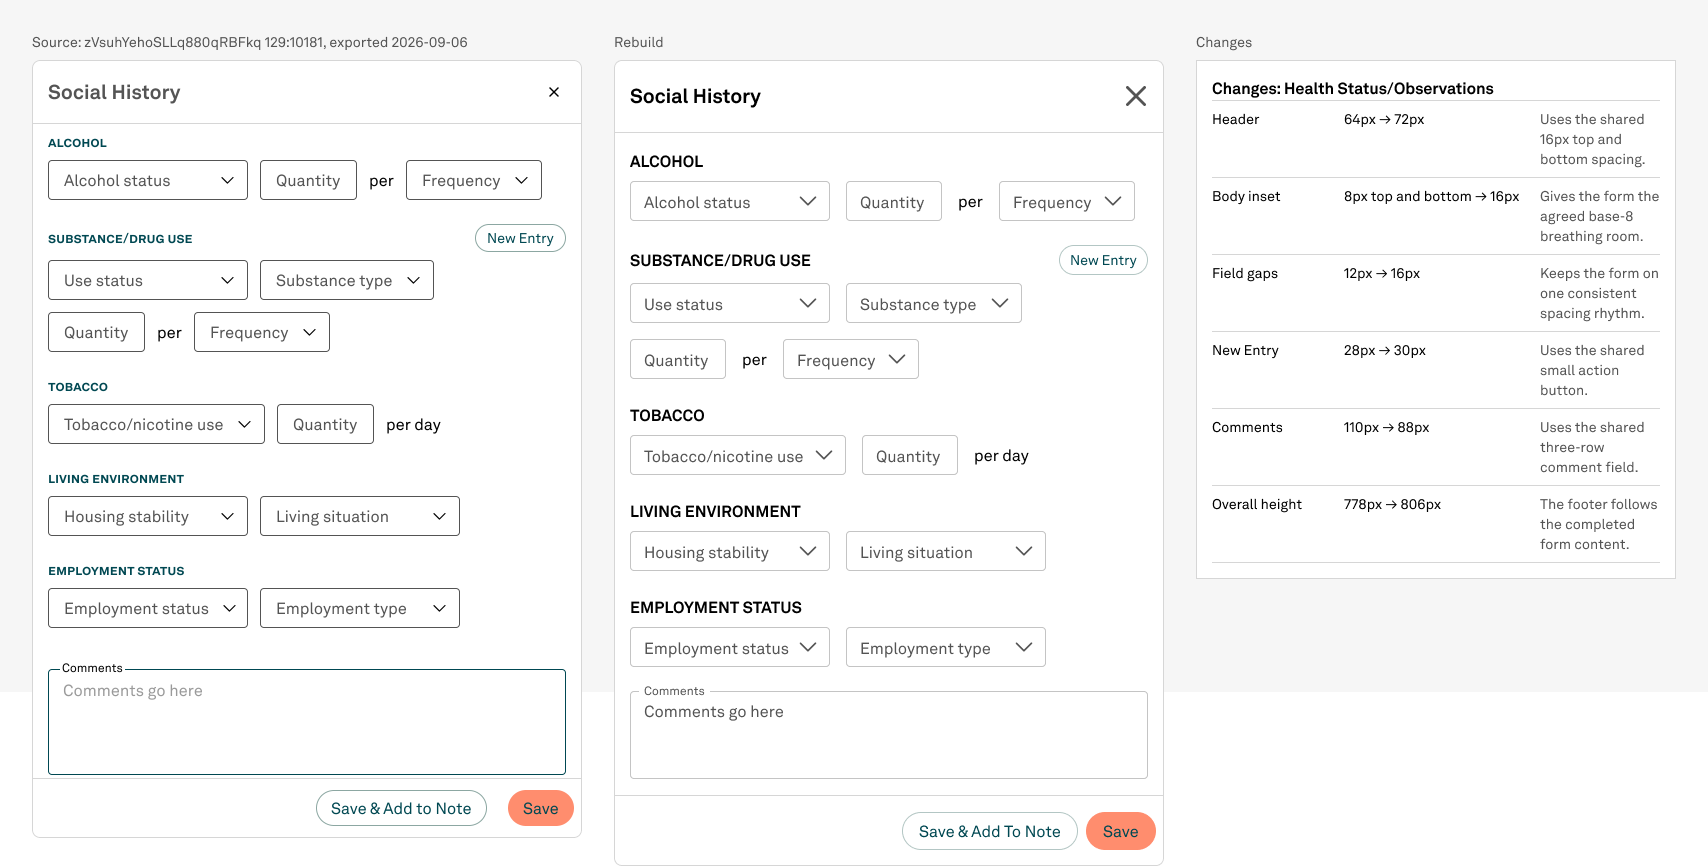
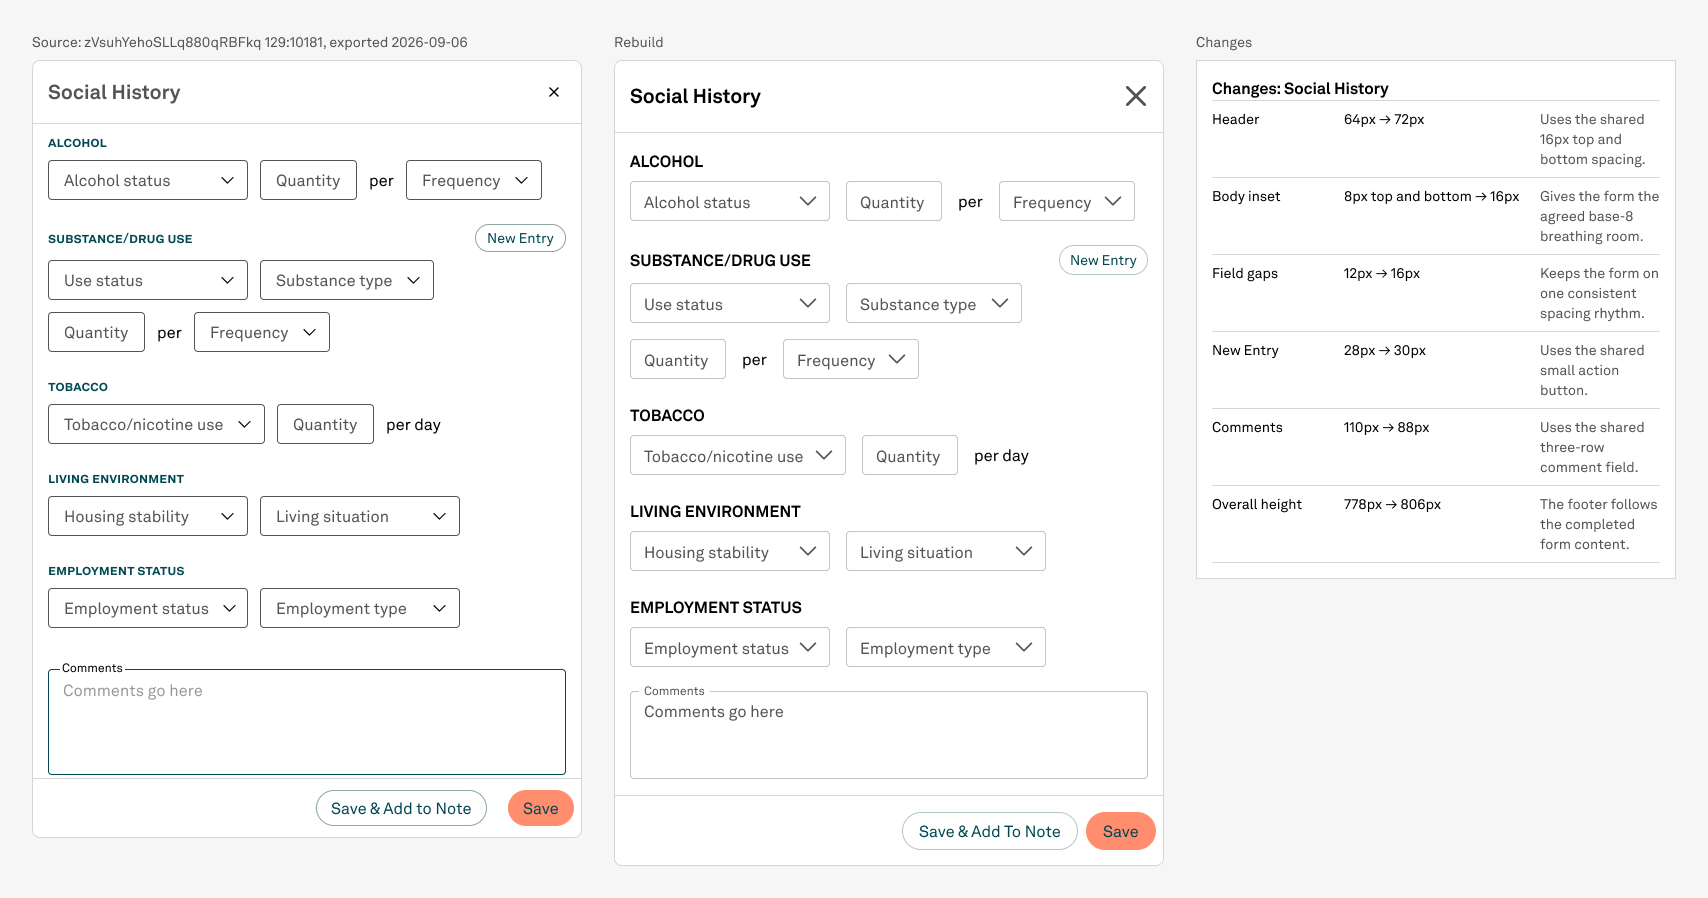
Schema: withdraw two false findings from the encounter-shell batch
The Health Status/Observations record was present all along (recorded 2026-09-05 22:15, earlier in key order than the audit record). No record was dropped; the previous commit's restore did not run. Flags withdrawn and kept; helper-naming finding added; report corrected.

Claude-Session: https://claude.ai/code/session_01PD2zFa2Sp2wXpivQxgFZsA

diff --git a/amend-npve-encounter-shell-withdraw-false-findings.js b/amend-npve-encounter-shell-withdraw-false-findings.js
@@ -1,0 +1,19 @@
+// amend-npve-encounter-shell-withdraw-false-findings.js — withdraws two findings raised in error during the encounter-shell batch.
+// npveRebuild_healthStatusObservations_2026-09-05 was recorded at 22:15 on 2026-09-05, before the Workflows audit record; a key-order
+// slice starting at the audit key missed it. No record was dropped and no restore ran (the restore script found the key present).
+const fs = require('fs');
+const P = './design-system-schema.json';
+const s = JSON.parse(fs.readFileSync(P, 'utf8'));
+const D = 'npveRebuild_encounterShell_2026-09-06';
+const r = s[D];
+r.unrecordedWorkFound = 'CORRECTED 2026-09-06: "14 · Health Status/Observations" (Templates 412:3888, Screens 415:7207) IS recorded — npveRebuild_healthStatusObservations_2026-09-05 was written at 22:15 on 2026-09-05, before the Workflows audit record, and a key-order slice starting at the audit key missed it. Only the helper naming ("Rebuild helper · …" / "Reference helper · …" instead of the _Rebuild comparison pattern) stands as a finding. The external agent\'s optical-spacing and Social History batches ran during this batch; commit 1d3ae56 swept their uncommitted files in.';
+r.correction_2026_09_06 = 'Flags npveEncounter_unrecordedHealthStatusBatch and npveEncounter_schemaRecordDroppedByConcurrentWrite withdrawn (kind WITHDRAWN, kept for the record). Commit 8cdd4b3\'s message claims a restore that did not run; this amendment is the correction.';
+for (const f of s.flags) {
+  if (f.id === 'npveEncounter_unrecordedHealthStatusBatch') { f.kind = 'WITHDRAWN'; f.severity = 'info'; f.withdrawn_2026_09_06 = 'Wrong: the record exists (written 2026-09-05 22:15, earlier in key order than the audit record). Naming drift of the Health Status helpers is re-raised as npveEncounter_healthStatusHelperNaming.'; }
+  if (f.id === 'npveEncounter_schemaRecordDroppedByConcurrentWrite') { f.kind = 'WITHDRAWN'; f.severity = 'info'; f.withdrawn_2026_09_06 = 'Wrong: no record was dropped; every backup and the live file hold the key. The restore script ran, found the key, and changed nothing. The concurrent-writer hazard itself is real but not evidenced here.'; }
+}
+if (!s.flags.find(f => f.id === 'npveEncounter_healthStatusHelperNaming')) {
+  s.flags.push({ id: 'npveEncounter_healthStatusHelperNaming', severity: 'low', kind: 'DECISION', discoveredDuring: D, webAppV2BugListCandidate: false, summary: 'The Health Status/Observations helpers are named "Rebuild helper · Health Status/Observations" and "Reference helper · Health Status/Observations" instead of the _Rebuild comparison/<Reference|Rebuild>/<screen> pattern that every other comparison uses.', where: 'target 413:7010, 415:4050 (Templates section 412:3888)', handling: 'Rename in the sidesheet workstream with a record; the change log helper 415:7108 already follows the pattern.' });
+}
+fs.writeFileSync(P, JSON.stringify(s, null, 1));
+console.log('withdrawn 2, added 1; flags', s.flags.length);

diff --git a/figma-export/npve-encounter-shell-2026-09-06/report.md b/figma-export/npve-encounter-shell-2026-09-06/report.md
@@ -74,11 +74,11 @@ Standing rules: 1 PASS (masters rendered through placed instances); 2 PASS with 
 
 ## Findings
 
-- Unrecorded external work: "14 · Health Status/Observations" on Templates (412:3888) and Screens (415:7207), helpers named outside the `_Rebuild comparison/…` pattern, no schema record. Not touched; flagged.
+- External work in flight: "14 · Health Status/Observations" (Templates 412:3888, Screens 415:7207) is recorded (`npveRebuild_healthStatusObservations_2026-09-05`, written before the audit record, which a key-order slice missed at first; two findings raised on that mistake were withdrawn). Its helpers are named outside the `_Rebuild comparison/…` pattern (flag). The external agent's optical-spacing and Social History batches ran during this batch and commit 1d3ae56 swept their uncommitted files in.
 - Split button has no Label property; the label and leading plus are fixed nested content (flag).
 - Badge dot cannot sit inline before text (flag); Icon button default glyph stands in for expand (info); Modules pill glyph delta (info); padding 10 has no token (flag).
 
-Counts: GAP markers 4, DEFECT 0, change-log rows 12, new masters 8 (Note card, placeholder, Patient header, Module chip set, Module strip, Page/Encounter, Rebuild comparison/Page, three helpers counted as one group). Flags +6.
+Counts: GAP markers 4, DEFECT 0, change-log rows 12, new masters 8 (Note card, placeholder, Patient header, Module chip set, Module strip, Page/Encounter, Rebuild comparison/Page, three helpers counted as one group). Flags +7 net (two withdrawn, one naming finding added).
 
 LIBRARY-TODOS.md gained item 18 (Module chip, marker 429:6878) and item 19 (Settle the Nav family home).
 
